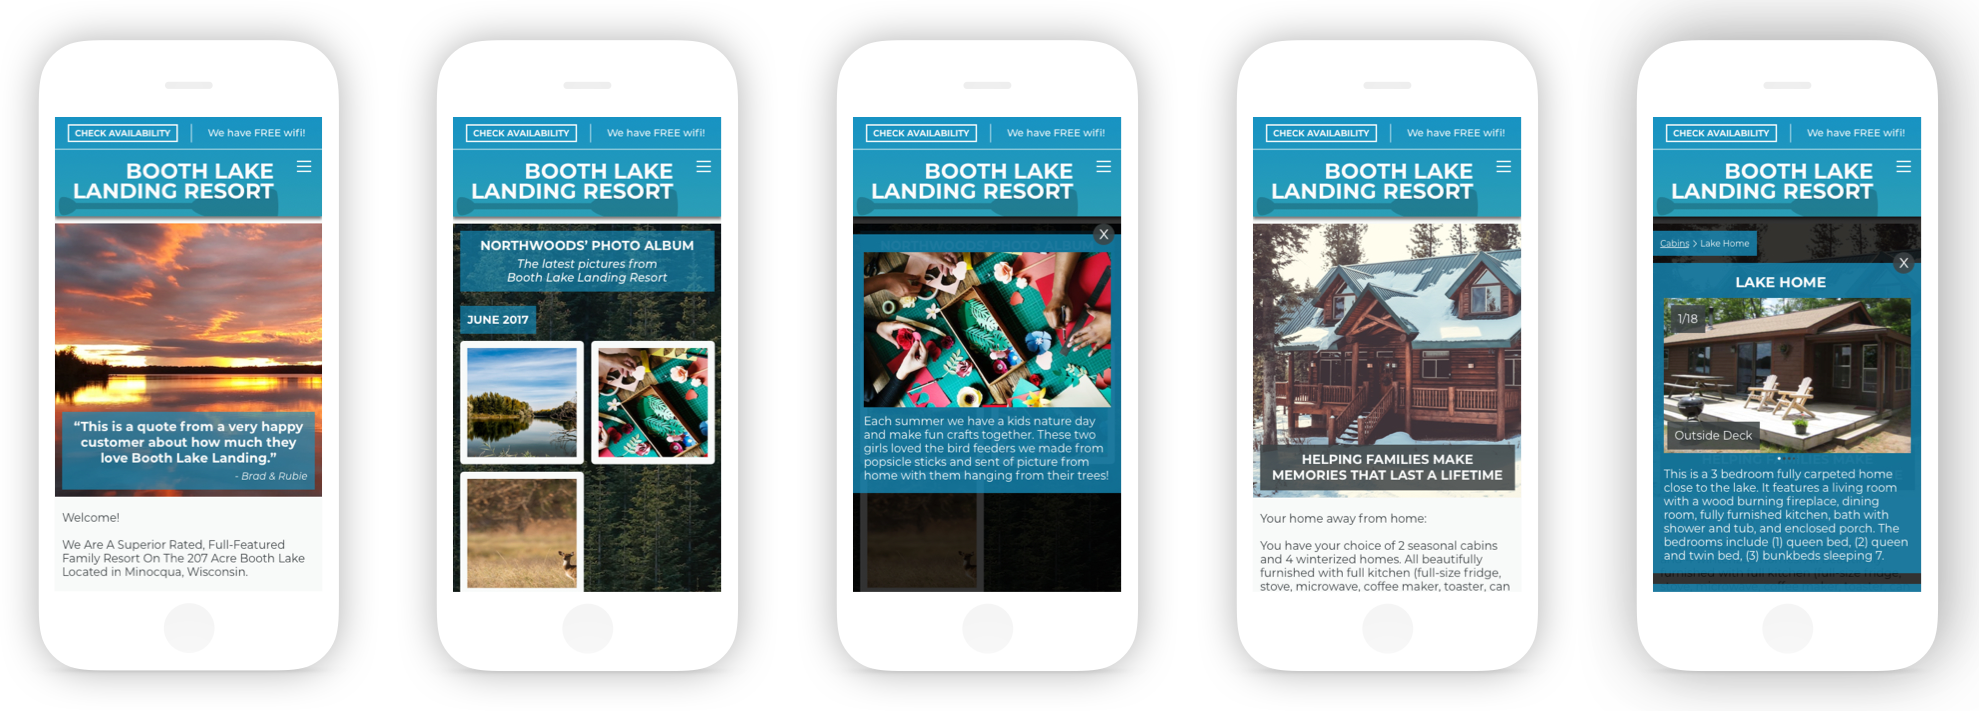
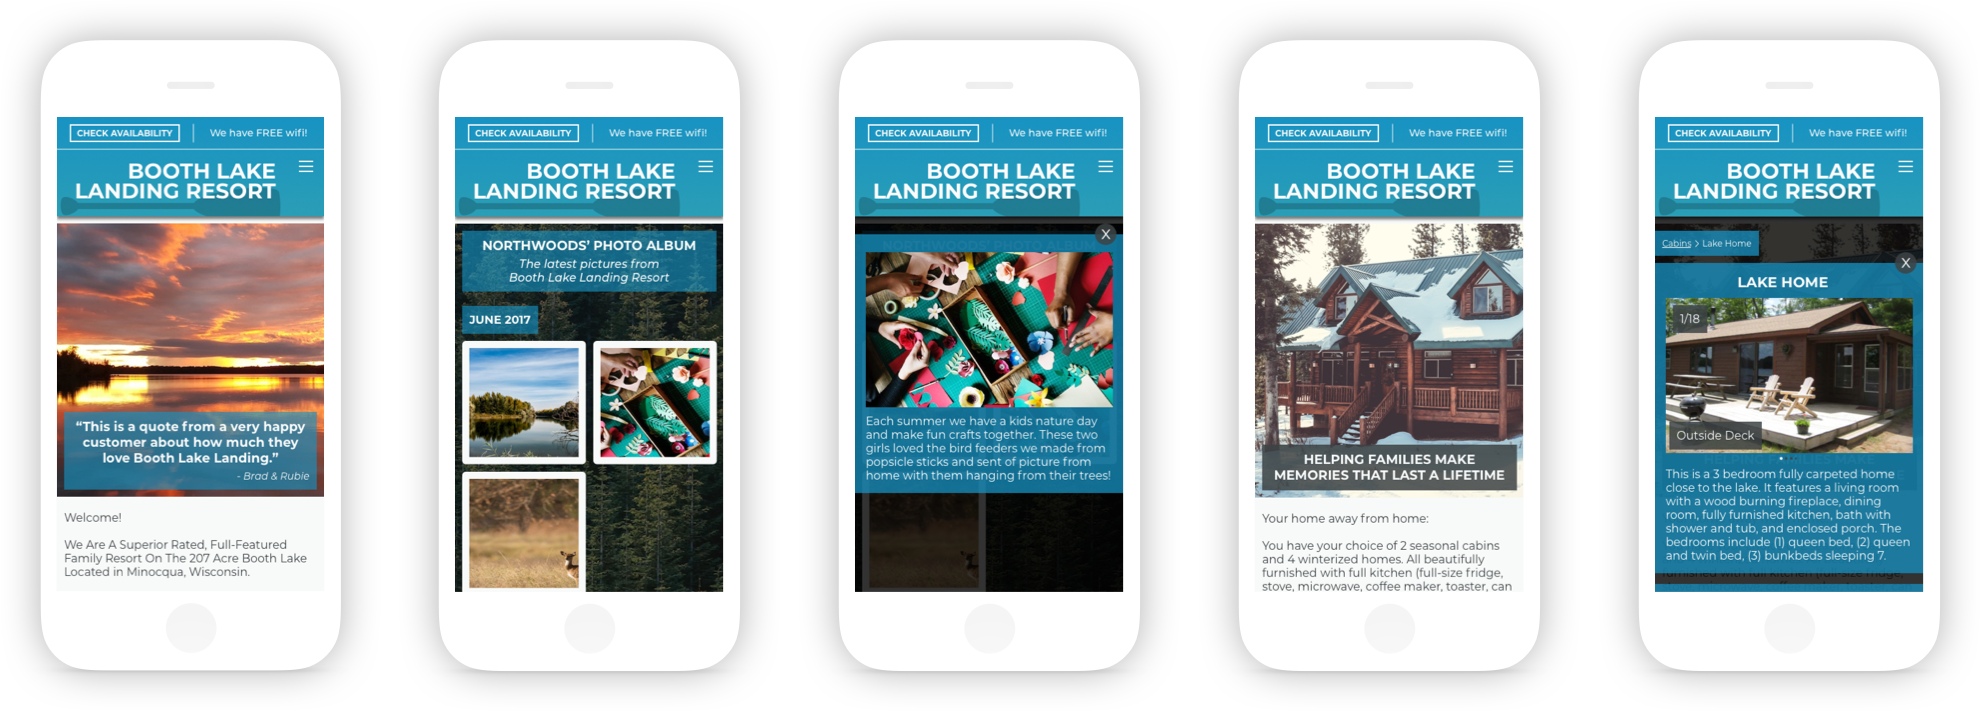
adjust SCSS for booth.html

diff --git a/scss/layout/_booth.scss b/scss/layout/_booth.scss
@@ -15,18 +15,27 @@
 // }
 
 // --------------------------
-
+.interior-body {
+  padding: 20px;
+  @media #{$breakpoint-medium} {
+    padding: 40px;
+  }
+  @media #{$breakpoint-large} {
+    padding: 80px;
+  }
+  @media #{$breakpoint-xlarge} {
+    padding: 160px;
+  }
+}
 .booth-header {
-  background-image: linear-gradient(45deg, rgba(235,238,152,100), rgba(194,65,118,100));
+  // background-image: linear-gradient(45deg, rgba(235,238,152,100), rgba(194,65,118,100));
   .nav-bar {
     display: flex;
     flex-direction: column;
     align-items: center;
-    padding: 20px 0;
     @media #{$breakpoint-large} {
       justify-content: space-between;
       flex-direction: row;
-      padding: 40px;
     }
     .page-nav {
       display: flex;
@@ -67,46 +76,46 @@
   }
 }
 .booth-page {
-  padding: 20px 20px 50px 20px;
-  @media #{$breakpoint-large} {
-    padding: 40px 40px 100px 40px;
-  }
-  .page-navigation {
-    display: none;
-    @media #{$breakpoint-large} {
-      background-color: #ffffff;
-      padding: 20px 40px;
-      position: fixed;
-      z-index: 100;
-      display: flex;
-      flex-direction: column;
-      align-items: flex-end;
-      .page-section {
-        font-size: 16px;
-        font-family: "lato-bold";
-        text-decoration: none;
-      }
-      .booth-section-one {
-        background-color: none;
-        border-radius: 4px;
-        color: #ffffff;
-        // padding: 15px;
-      }
-      .booth-section-two {
-        margin-top: 20px;
-      }
-      .booth-section-three {
-        margin-top: 20px;
-      }
-    }
-  }
+  // padding: 20px 20px 50px 20px;
+  // @media #{$breakpoint-large} {
+  //   padding: 40px 40px 100px 40px;
+  // }
+  // .page-navigation {
+  //   display: none;
+  //   @media #{$breakpoint-large} {
+  //     background-color: #ffffff;
+  //     padding: 20px 40px;
+  //     position: fixed;
+  //     z-index: 100;
+  //     display: flex;
+  //     flex-direction: column;
+  //     align-items: flex-end;
+  //     .page-section {
+  //       font-size: 16px;
+  //       font-family: "lato-bold";
+  //       text-decoration: none;
+  //     }
+  //     .booth-section-one {
+  //       background-color: none;
+  //       border-radius: 4px;
+  //       color: #ffffff;
+  //       // padding: 15px;
+  //     }
+  //     .booth-section-two {
+  //       margin-top: 20px;
+  //     }
+  //     .booth-section-three {
+  //       margin-top: 20px;
+  //     }
+  //   }
+  // }
   .page-content {
-    @media #{$breakpoint-large} {
-      padding-left: 23%;
-    }
-    @media #{$breakpoint-xlarge} {
-      padding-left: 15%;
-    }
+    // @media #{$breakpoint-large} {
+    //   padding-left: 23%;
+    // }
+    // @media #{$breakpoint-xlarge} {
+    //   padding-left: 15%;
+    // }
     .section {
       h4 {
         margin-top: 20px;
@@ -151,8 +160,7 @@
         visibility: hidden;
       }
     }
-    .components-section,
-    .next-section {
+    .section {
       margin-top: 60px;
     }
     .overview-section {
@@ -188,16 +196,6 @@
           }
         }
       }
-      // .mockup-group {
-      //   position: relative;
-      //   width: 200vw;
-      //   left: -40%;
-      //   background-image: linear-gradient(45deg, #EBEE98, #C24176);
-      //   background-size: cover;
-      //   img {
-      //     height: 400px;
-      //   }
-      // }
     }
     .design-section {
       .booth-sitemap {
@@ -213,19 +211,28 @@
         }
       }
       .wireframe-group {
-        background-image: linear-gradient(45deg, #EBEE98, #C24176);
+        background-color: #F3DDB3;
         width: 100vw;
         background-size: cover;
         position: relative;
         left: -20px;
         overflow: hidden;
         margin: 30px 0 50px 0;
+        @media #{$breakpoint-medium} {
+          left: -40px;
+        }
         @media #{$breakpoint-large} {
-          left: -33.8%;
+          left: -80px;
         }
         @media #{$breakpoint-xlarge} {
-          left: -19.4%;
+          left: -160px;
         }
+        // @media #{$breakpoint-large} {
+        //   left: -33.8%;
+        // }
+        // @media #{$breakpoint-xlarge} {
+        //   left: -19.4%;
+        // }
         .wireframe-group-positioning {
           position: relative;
           left: -150px;
@@ -274,31 +281,37 @@
         }
       }
       .mockup-group {
-        background-image: linear-gradient(45deg, #EBEE98, #C24176);
+        background-color: #F3DDB3;
         width: 100vw;
         background-size: cover;
         position: relative;
         left: -20px;
         overflow: hidden;
         margin: 30px 0 50px 0;
+        @media #{$breakpoint-medium} {
+          left: -40px;
+        }
         @media #{$breakpoint-large} {
-          left: -33.8%;
+          left: -80px;
         }
         @media #{$breakpoint-xlarge} {
-          left: -19.4%;
+          left: -160px;
         }
         .mockup-group-positioning {
+          display: flex;
+          justify-content: center;
+          align-items: center;
           position: relative;
-          left: -50px;
-          @media #{$breakpoint-large} {
-            left: -70px;
-          }
-          @media #{"only screen and (min-width: 1840px)"} {
-            position: static;
-            display: flex;
-            justify-content: center;
-            align-items: center;
-          }
+          // left: -50px;
+          // @media #{$breakpoint-large} {
+          //   left: -70px;
+          // }
+          // @media #{"only screen and (min-width: 1840px)"} {
+          //   position: static;
+          //   display: flex;
+          //   justify-content: center;
+          //   align-items: center;
+          // }
           img {
             height: 180px;
             padding-bottom: 15px;

diff --git a/scss/layout/_index.scss b/scss/layout/_index.scss
@@ -1,21 +1,23 @@
 .index {
   height: 100%;
-  padding: 40px;
+  padding: 20px;
+  @media #{$breakpoint-medium} {
+    padding: 40px;
+  }
+  @media #{$breakpoint-large} {
+    padding: 80px;
+  }
+  @media #{$breakpoint-xlarge} {
+    padding: 160px;
+  }
   .index-header {
     display: flex;
     flex-direction: column;
-    // padding-top: 20px;
-    // padding-left: 20px;
-    // padding-right: 20px;
     @media #{$breakpoint-medium} {
       justify-content: space-between;
       flex-direction: row;
     }
     @media #{$breakpoint-large} {
-      // padding-top: 40px;
-      // padding-left: 40px;
-      // padding-right: 40px;
-      // background-image: linear-gradient(rgba(28,33,36,100), rgba(28,33,36,0));
       position: absolute;
     }
     .hero-copy {
@@ -75,15 +77,26 @@
     }
     nav {
       display: none;
+      // @media #{$breakpoint-medium} {
+      //   padding: 40px;
+      // }
+      // @media #{$breakpoint-large} {
+      //   padding: 80px;
+      // }
+      // @media #{$breakpoint-xlarge} {
+      //   padding: 160px;
+      // }
       @media #{$breakpoint-medium} {
-        padding-right: 0px;
         flex-direction: column;
         display: flex;
         justify-content: flex-start;
         align-items: flex-end;
       }
       @media #{$breakpoint-large} {
-        padding-right: 40px;
+        padding-right: 80px; // must add padding here since display flex takes it out of regular flow of doc otherwise overall page padding won't be applied
+      }
+      @media #{$breakpoint-xlarge} {
+        padding-right: 160px; // must add padding here since display flex takes it out of regular flow of doc otherwise overall page padding won't be applied
       }
       .navigation {
         @media #{$breakpoint-medium} {
@@ -133,7 +146,6 @@
     }
   }
   .index-body {
-    padding-top: 40px;
     width: 100%;
     @media #{$breakpoint-medium} {
       padding-top: 80px;
@@ -153,6 +165,7 @@
         .project {
           a {
             text-decoration: none;
+            cursor: pointer;
             .project-label {
               margin-top: 8px;
             }

diff --git a/booth.html b/booth.html
@@ -20,7 +20,7 @@
     <title>connor larsen dot com</title>
   </head>
   <main id="swup" class="transition-fade">
-    <body>
+    <body class="interior-body">
       <header class="booth-header">
         <div class="nav-bar">
           <div class="page-hero">
@@ -39,15 +39,15 @@
         <div class="to-top">
           <a href="#overview-anchor"><i class="fa fa-chevron-up" aria-hidden="true"></i></a>
         </div>
-        <div class="page-navigation">
+        <!-- <div class="page-navigation">
           <a href="#overview-anchor" class="page-section booth-section-one">Overview</a>
           <a href="#design-anchor" class="page-section booth-section-two">Design</a>
           <a href="#next-anchor" class="page-section booth-section-three">Next Steps</a>
-        </div>
+        </div> -->
         <div class="page-content">
           <div class="section overview-section">
             <div id="overview-anchor"></div>
-            <h2>Overview</h2>
+            <!-- <h2>Overview</h2> -->
             <h4>I was hired by Sitecast to help redesign the Booth Lake Landing Resort website. The original site, though perhaps modern in its day, was incredibly dated and in need of a makeover, both from a user interface and user experience perspective. It was crucial for the owner of Booth Lake Landing that the site reflect what she referred to as the “Northwoods aesthetic," allowing visitors to get a visual sense of the region as they explored the site to help them get a glimpse of the area’s beauty before stepping foot onto the resort.</h4>
             <div class="booth-desktop-mobile">
               <img src="img/booth-landing-computer.png" alt="Desktop and mobile view of Booth Lake Landing Resorts' landing page">

diff --git a/scss/base/_typography.scss b/scss/base/_typography.scss
@@ -39,7 +39,7 @@ h3 {
 }
 
 h4 {
-  font-family: "lato-regular";
+  font-family: "montserrat-reg";
   color: $blue-grey;
   font-size: 18px;
   line-height: 26px;
@@ -50,7 +50,7 @@ h4 {
 }
 
 p, li {
-  font-family: "lato-regular";
+  font-family: "montserrat-reg";
   font-size: 16px;
   line-height: 20px;
   @media #{$breakpoint-large} {
@@ -78,15 +78,14 @@ p, li {
     color: $blue-grey;
   }
 
-  // .page-hero {
-  //   h1 {
-  //     font-size: 32px;
-  //     text-align: center;
-  //     @media #{$breakpoint-large} {
-  //       font-size: 32px;
-  //     }
-  //   }
-  // }
+  .page-hero {
+    h1 {
+      text-align: center;
+      @media #{$breakpoint-large} {
+        text-align: left;
+      }
+    }
+  }
 
 .project-label {
   font-family: "montserrat-semibold";
